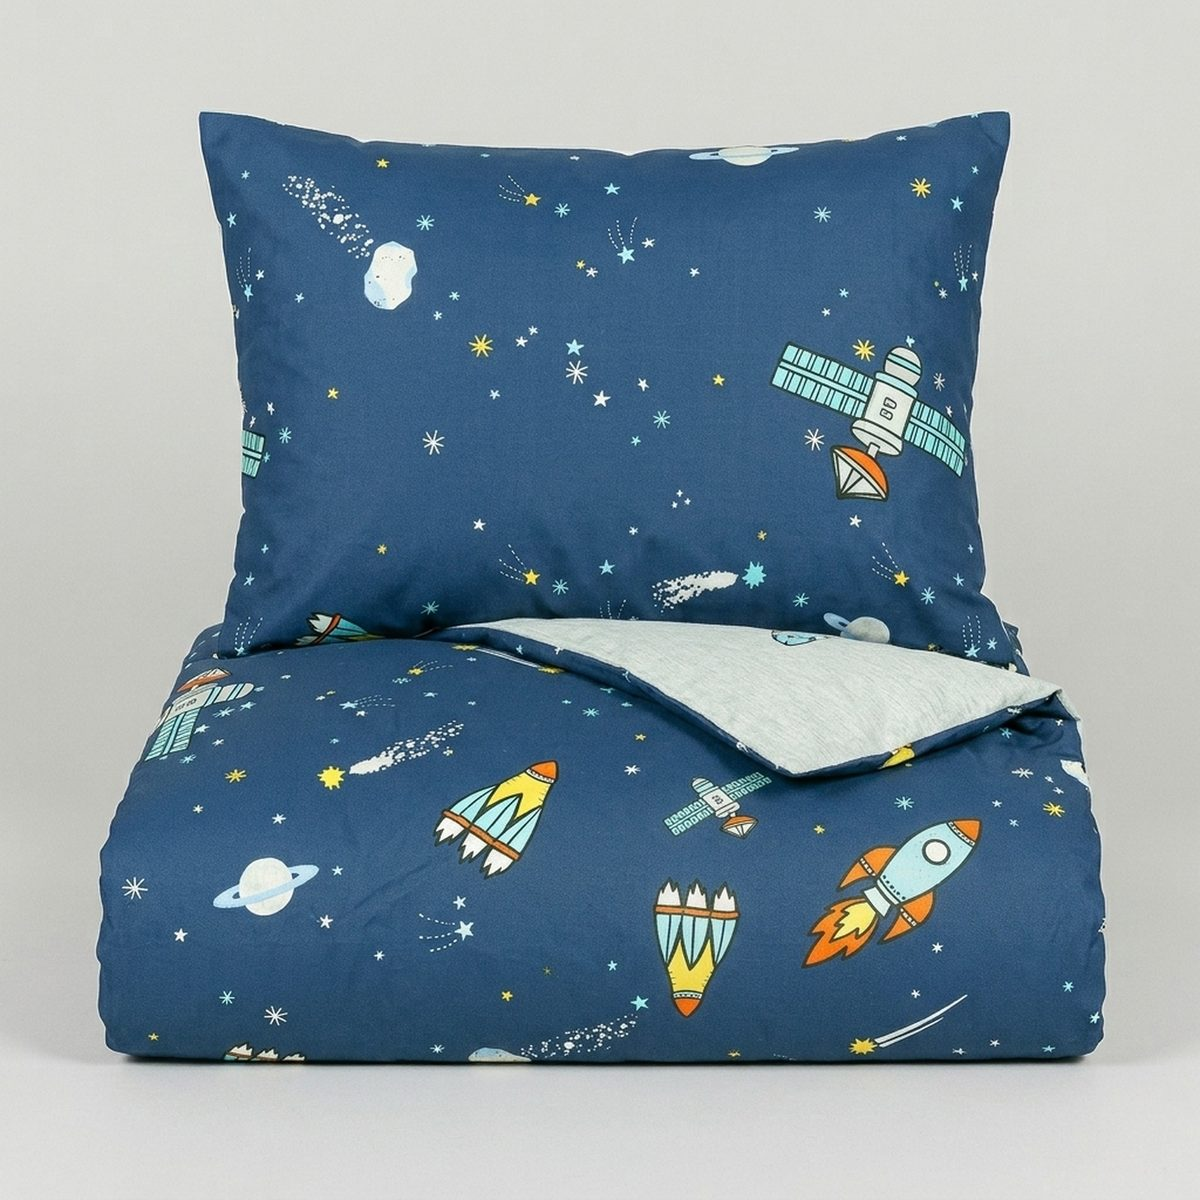
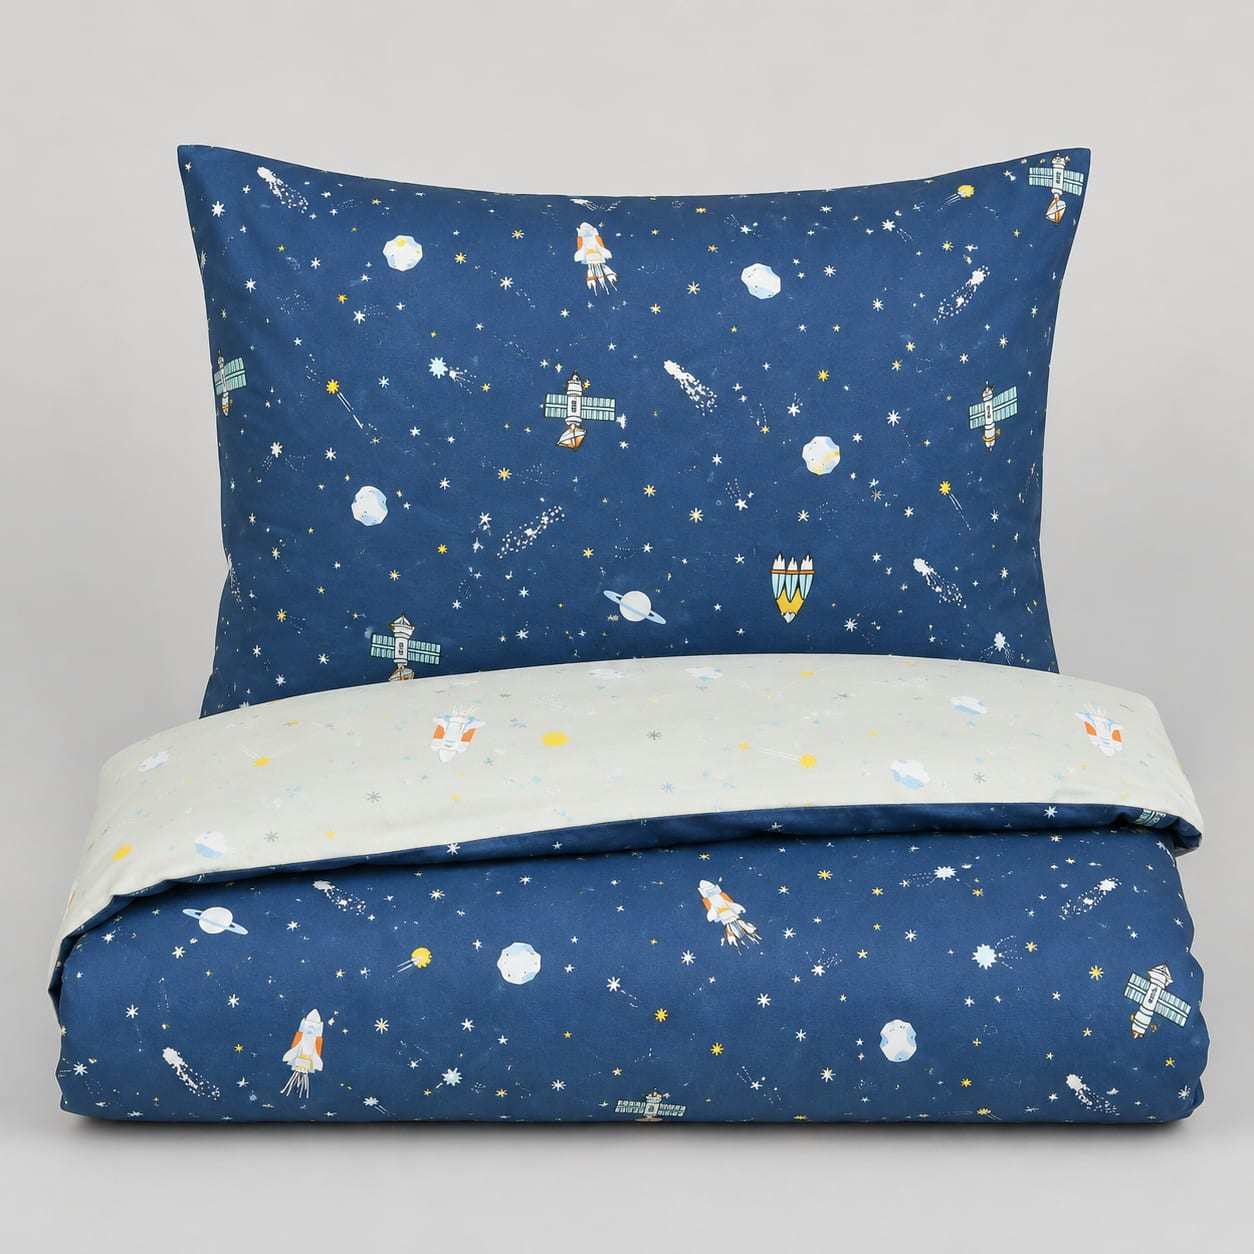
24793 Spacio: popravek izmišljenega motiva (vse 3 slike, gpt2 i2i na prave PS)

diff --git a/otroska-24793-spacio-140x200-50x70.html b/otroska-24793-spacio-140x200-50x70.html
@@ -24,7 +24,7 @@
 </style></head>
 <body><header><div class="eyebrow">Vitapur · Otroška posteljnina</div><h1>Posteljnina Spacio 140x200 50x70</h1><p>SKU 24793 · 3 slik · <a href="https://www.vitapur.si/spalnica/posteljnina/vitapur-svilanit-otroska-bombazna-posteljnina-spacio/" target="_blank" rel="noopener">originalni izdelek na vitapur.si &rarr;</a></p><a class="back" href="kat-otroska-posteljnina.html">&larr; Vsa otroška posteljnina</a></header>
 <div class="grid">
-<figure><a href="img/otroska-24793-spacio-140x200-50x70/01_entry.jpg" target="_blank"><img src="img/otroska-24793-spacio-140x200-50x70/01_entry.jpg" alt="ENTRY — naslovna fotografija" loading="lazy"></a><figcaption><span class="num">01<span class="hero-tag">MAIN</span></span><div class="cap">ENTRY — naslovna fotografija</div></figcaption></figure><figure><a href="img/otroska-24793-spacio-140x200-50x70/02_ps01.jpg" target="_blank"><img src="img/otroska-24793-spacio-140x200-50x70/02_ps01.jpg" alt="PHOTOSTORY 1" loading="lazy"></a><figcaption><span class="num">02</span><div class="cap">PHOTOSTORY 1</div></figcaption></figure><figure><a href="img/otroska-24793-spacio-140x200-50x70/03_ps02.jpg" target="_blank"><img src="img/otroska-24793-spacio-140x200-50x70/03_ps02.jpg" alt="PHOTOSTORY 2" loading="lazy"></a><figcaption><span class="num">03</span><div class="cap">PHOTOSTORY 2</div></figcaption></figure>
+<figure><a href="img/otroska-24793-spacio-140x200-50x70/01_entry.jpg?v=20260728c" target="_blank"><img src="img/otroska-24793-spacio-140x200-50x70/01_entry.jpg?v=20260728c" alt="ENTRY — naslovna fotografija" loading="lazy"></a><figcaption><span class="num">01<span class="hero-tag">MAIN</span></span><div class="cap">ENTRY — naslovna fotografija</div></figcaption></figure><figure><a href="img/otroska-24793-spacio-140x200-50x70/02_ps01.jpg?v=20260728c" target="_blank"><img src="img/otroska-24793-spacio-140x200-50x70/02_ps01.jpg?v=20260728c" alt="PHOTOSTORY 1" loading="lazy"></a><figcaption><span class="num">02</span><div class="cap">PHOTOSTORY 1</div></figcaption></figure><figure><a href="img/otroska-24793-spacio-140x200-50x70/03_ps02.jpg?v=20260728c" target="_blank"><img src="img/otroska-24793-spacio-140x200-50x70/03_ps02.jpg?v=20260728c" alt="PHOTOSTORY 2" loading="lazy"></a><figcaption><span class="num">03</span><div class="cap">PHOTOSTORY 2</div></figcaption></figure>
 </div>
 <footer>Koncept galerije — julij 2026 · Vitapur · komentar vpiši pod posamezno sliko</footer>
 <script src="comments.js" defer></script>

diff --git a/kat-otroska-posteljnina.html b/kat-otroska-posteljnina.html
@@ -25,7 +25,7 @@
 <body><header><div class="eyebrow">Vitapur · Product Gallery Renewal</div><h1>Otroška posteljnina</h1><p>Otroški vzorci · 7 izdelkov. Klikni izdelek za galerijo; komentar vpiši pod posamezno sliko.</p><a class="back" href="index.html">&larr; Vse kategorije</a></header>
 <div class="grid">
 <div class="card"><a href="otroska-24792-skyra-140x200-50x70.html"><img src="img/otroska-24792-skyra-140x200-50x70/01_entry.jpg" alt="Posteljnina Skyra 140x200 50x70" loading="lazy"><div class="meta"><h2>Posteljnina Skyra 140x200 50x70</h2><p>SKU 24792 · 3 slik</p></div></a></div>
-<div class="card"><a href="otroska-24793-spacio-140x200-50x70.html"><img src="img/otroska-24793-spacio-140x200-50x70/01_entry.jpg" alt="Posteljnina Spacio 140x200 50x70" loading="lazy"><div class="meta"><h2>Posteljnina Spacio 140x200 50x70</h2><p>SKU 24793 · 3 slik</p></div></a></div>
+<div class="card"><a href="otroska-24793-spacio-140x200-50x70.html"><img src="img/otroska-24793-spacio-140x200-50x70/01_entry.jpg?v=20260728c" alt="Posteljnina Spacio 140x200 50x70" loading="lazy"><div class="meta"><h2>Posteljnina Spacio 140x200 50x70</h2><p>SKU 24793 · 3 slik</p></div></a></div>
 <div class="card"><a href="otroska-24794-unicorn-140x200-50x70.html"><img src="img/otroska-24794-unicorn-140x200-50x70/01_entry.jpg" alt="Posteljnina Unicorn 140x200 50x70" loading="lazy"><div class="meta"><h2>Posteljnina Unicorn 140x200 50x70</h2><p>SKU 24794 · 3 slik</p></div></a></div>
 <div class="card"><a href="otroska-24795-fairy-140x200-50x70.html"><img src="img/otroska-24795-fairy-140x200-50x70/01_entry.jpg" alt="Posteljnina Fairy 140x200 50x70" loading="lazy"><div class="meta"><h2>Posteljnina Fairy 140x200 50x70</h2><p>SKU 24795 · 3 slik</p></div></a></div>
 <div class="card"><a href="otroska-24796-trucky-100x140-40x60.html"><img src="img/otroska-24796-trucky-100x140-40x60/01_entry.jpg" alt="Posteljnina Trucky 100x140 40x60" loading="lazy"><div class="meta"><h2>Posteljnina Trucky 100x140 40x60</h2><p>SKU 24796 · 3 slik</p></div></a></div>
